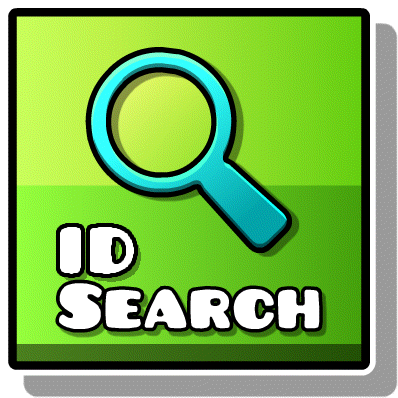
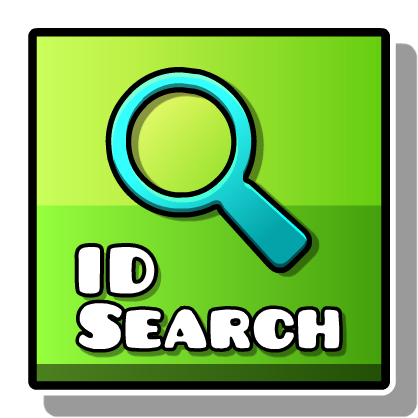
update remaining textures for rgba8888 and new alignment

diff --git a/src/layers/CustomCreatorLayer.cpp b/src/layers/CustomCreatorLayer.cpp
@@ -24,8 +24,29 @@ bool CustomCreatorLayer::init() {
     auto menu = CCMenu::create();
     menu->setID("main-menu"_spr);
     addChild(menu);
-    auto label = CCLabelBMFont::create(Mod::get()->getName().c_str(), "goldFont.fnt");
 
+    auto buttonsMenu = CCMenu::create();
+    buttonsMenu->setID("creator-buttons-menu"_spr);
+    buttonsMenu->setContentSize({ 300.f, 240.f });
+    buttonsMenu->setPosition({winSize.width / 2, winSize.height / 2 + 4.5f});
+    buttonsMenu->setLayout(
+        RowLayout::create()
+            ->setGap(6.f)
+            ->setGrowCrossAxis(true)
+            ->setCrossAxisOverflow(false)
+    );
+    addChild(buttonsMenu);
+
+    auto bottomMenu = CCMenu::create();
+    bottomMenu->setID("bottom-menu"_spr);
+    bottomMenu->setContentSize({winSize.width - 140.f, 65.f});
+    bottomMenu->setPosition({winSize.width / 2, 25});
+    bottomMenu->setLayout(
+        RowLayout::create()
+    );
+    addChild(bottomMenu);
+
+    auto label = CCLabelBMFont::create(Mod::get()->getName().c_str(), "goldFont.fnt");
     label->setPosition({winSize.width / 2, winSize.height - 25});
     label->setID("title-label"_spr);
 
@@ -36,72 +57,36 @@ bool CustomCreatorLayer::init() {
         this,
         menu_selector(CustomCreatorLayer::onFeatured)
     );
-    menu->addChild(featuredBtn);
-    featuredBtn->setPosition({-60,55});
+    buttonsMenu->addChild(featuredBtn);
     featuredBtn->setSizeMult(1.2f);
     featuredBtn->setID("featured-button"_spr);
-
-    /*auto mostLikedBtn = CCMenuItemSpriteExtra::create(
-        BetterInfo::createWithBISpriteFrameName("BI_mostLikedBtn_001.png"),
-        this,
-        menu_selector(CustomCreatorLayer::onMostLiked)
-    );
-    menu->addChild(mostLikedBtn);
-    mostLikedBtn->setPosition({0,55});
-    mostLikedBtn->setSizeMult(1.2f);
-    mostLikedBtn->setID("most-liked-button"_spr);*/
-
-    auto searchBtn = CCMenuItemSpriteExtra::create(
-        BetterInfo::createBISprite("BI_searchLevel_001.png"),
-        this,
-        menu_selector(CustomCreatorLayer::onSearch)
-    );
-    menu->addChild(searchBtn);
-    searchBtn->setPosition({60,-55});
-    searchBtn->setSizeMult(1.2f);
-    searchBtn->setID("search-button"_spr);
-
-    auto searchIDBtn = CCMenuItemSpriteExtra::create(
-        BetterInfo::createBISprite("BI_searchID_001.png"),
-        this,
-        menu_selector(CustomCreatorLayer::onSearchID)
-    );
-    menu->addChild(searchIDBtn);
-    searchIDBtn->setPosition({-60,-55});
-    searchIDBtn->setSizeMult(1.2f);
-    searchIDBtn->setID("search-id-button"_spr);
-
-    /*auto dailyBtn = CCMenuItemSpriteExtra::create(
-        CCSprite::createWithSpriteFrameName("GJ_dailyBtn_001.png"),
-        this,
-        menu_selector(CustomCreatorLayer::onDaily)
-    );
-    menu->addChild(dailyBtn);
-    dailyBtn->setPosition({-122.5,-55});
-    dailyBtn->setSizeMult(1.2f);
-    dailyBtn->setID("daily-button"_spr);
-
-    //CCTextureCache::sharedTextureCache()->addImage("mostliked.png", 0);
-
-    auto weeklyBtn = CCMenuItemSpriteExtra::create(
-        CCSprite::createWithSpriteFrameName("GJ_weeklyBtn_001.png"),
-        this,
-        menu_selector(CustomCreatorLayer::onWeekly)
-    );
-    menu->addChild(weeklyBtn);
-    weeklyBtn->setPosition({-2.5,-55});
-    weeklyBtn->setSizeMult(1.2f);
-    weeklyBtn->setID("weekly-button"_spr);*/
 
     auto fameBtn = CCMenuItemSpriteExtra::create(
         BetterInfo::createBISprite("GJ_fameBtn_001.png"),
         this,
         menu_selector(CustomCreatorLayer::onFame)
     );
-    menu->addChild(fameBtn);
-    fameBtn->setPosition({60,55});
+    buttonsMenu->addChild(fameBtn);
     fameBtn->setSizeMult(1.2f);
     fameBtn->setID("weekly-button"_spr);
+
+    auto searchIDBtn = CCMenuItemSpriteExtra::create(
+        BetterInfo::createBISprite("BI_searchID_001.png"),
+        this,
+        menu_selector(CustomCreatorLayer::onSearchID)
+    );
+    buttonsMenu->addChild(searchIDBtn);
+    searchIDBtn->setSizeMult(1.2f);
+    searchIDBtn->setID("search-id-button"_spr);
+
+    auto searchBtn = CCMenuItemSpriteExtra::create(
+        BetterInfo::createBISprite("BI_searchLevel_001.png"),
+        this,
+        menu_selector(CustomCreatorLayer::onSearch)
+    );
+    buttonsMenu->addChild(searchBtn);
+    searchBtn->setSizeMult(1.2f);
+    searchBtn->setID("search-button"_spr);
 
     auto settingsSprite = CCSprite::createWithSpriteFrameName("GJ_optionsBtn_001.png");
     settingsSprite->setScale(0.775f);
@@ -110,8 +95,7 @@ bool CustomCreatorLayer::init() {
         this,
         menu_selector(CustomCreatorLayer::onSettings)
     );
-    menu->addChild(settingsBtn);
-    settingsBtn->setPosition({0, - ( (winSize.height / 2) - 25 ) });
+    bottomMenu->addChild(settingsBtn);
     settingsBtn->setSizeMult(1.2f);
     settingsBtn->setID("settings-button"_spr);
 
@@ -124,6 +108,9 @@ bool CustomCreatorLayer::init() {
     infoBtn->setPosition({ (winSize.width / 2) - 25 , (winSize.height / 2) - 25 });
     infoBtn->setSizeMult(1.2f);
     infoBtn->setID("info-button"_spr);
+
+    buttonsMenu->updateLayout();
+    bottomMenu->updateLayout();
 
     return true;
 }
